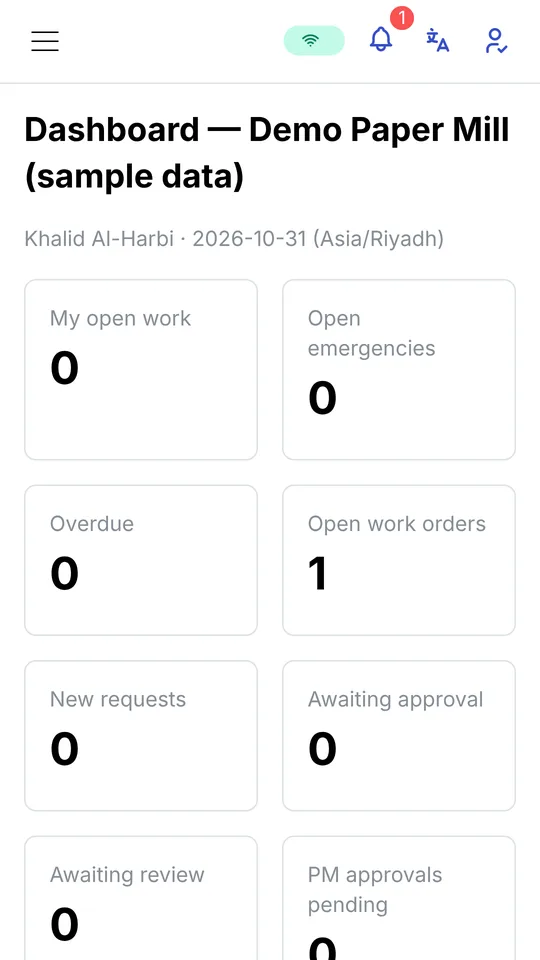
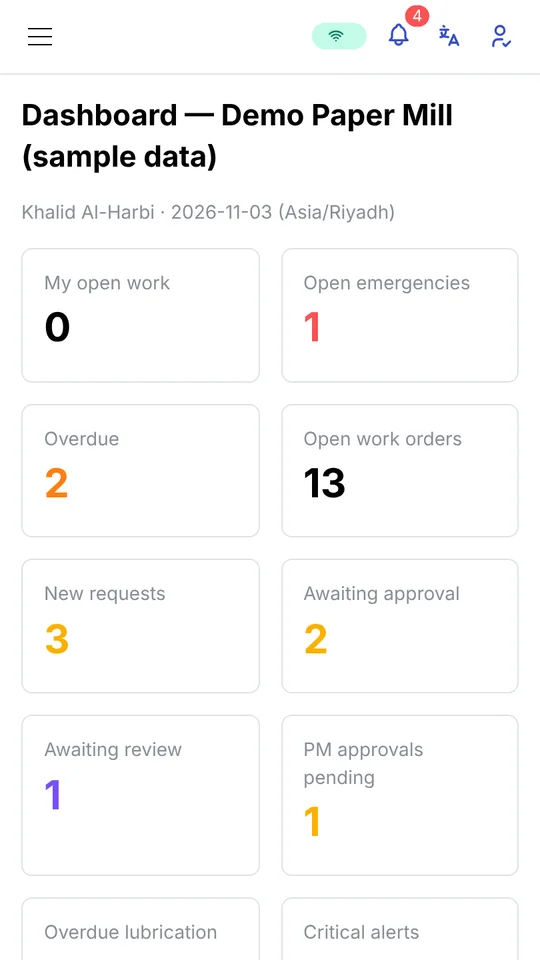
Website: attractive hero on phones (one large live dashboard with floating alert and KPI cards), fresh screenshots from the living demo
- hero: dashboard in front (Arabic dashboard when the page is Arabic), My work behind on desktop; on phones one
  large centred screen; floating 'critical alert' and 'PM compliance 83%' cards
- screenshots: dashboard, my work, KPIs, Arabic dashboard (new, from the sample plant) + work order, scan

Claude-Session: https://claude.ai/code/session_01Ke7AbW2ZAr1s7LAHWdcbby

diff --git a/site/public/index.html b/site/public/index.html
@@ -56,14 +56,33 @@ nav.links a:hover{color:#fff}
 .hero .ctas{display:flex;flex-wrap:wrap;gap:12px}
 .hero .chips{display:flex;flex-wrap:wrap;gap:8px 18px;margin-top:28px;color:#a9bdd1;font-size:.92rem;padding:0;list-style:none}
 .hero .chips li::before{content:"✓";color:var(--amber);margin-inline-end:6px;font-weight:700}
-.hero-shots{position:relative;height:440px}
+.hero-shots{position:relative;height:500px}
 .phone{border-radius:26px;background:#0b1622;padding:8px;box-shadow:0 24px 60px rgba(0,0,0,.45);border:1px solid rgba(255,255,255,.12)}
 .phone img{border-radius:19px;width:100%;height:auto;aspect-ratio:9/16;object-fit:cover;background:#fff}
-.hero-shots .phone{position:absolute;width:210px}
-.hero-shots .p1{inset-inline-start:8%;top:30px;transform:rotate(-4deg)}
-.hero-shots .p2{inset-inline-start:46%;top:0;transform:rotate(4deg)}
+.hero-shots .phone{position:absolute;width:236px}
+.hero-shots .p1{inset-inline-start:30%;top:6px;z-index:2;transform:rotate(-3deg)}
+.hero-shots .p2{inset-inline-start:2%;top:56px;z-index:1;transform:rotate(-9deg) scale(.88);opacity:.85}
+.float{position:absolute;z-index:3;background:#fff;color:var(--text);border-radius:12px;padding:10px 14px;font-size:.88rem;font-weight:600;
+  box-shadow:0 14px 34px rgba(0,0,0,.35);display:flex;align-items:center;gap:10px;line-height:1.3;max-width:230px}
+.float small{display:block;color:var(--muted);font-weight:500;font-size:.78rem}
+.float .dot{flex:none;width:30px;height:30px;border-radius:9px;display:grid;place-items:center;font-size:1rem}
+.float.alert{inset-inline-end:0;top:70px}
+.float.alert .dot{background:#fdecec;color:#c0392b}
+.float.kpi{inset-inline-start:6%;bottom:40px}
+.float.kpi .dot{background:#e9f7ef;color:#1f8a4c}
+@media (max-width:900px){
+  .hero .wrap{grid-template-columns:1fr;padding-top:40px;padding-bottom:40px}
+  .hero-shots{height:auto;max-width:420px;margin:8px auto 0;width:100%;display:flex;justify-content:center;align-items:flex-start;padding:18px 0 24px}
+  .hero-shots .p2{display:none}
+  .hero-shots .phone{width:252px;height:auto}
+  .hero-shots .p1{position:relative;inset:auto;transform:rotate(-2deg)}
+  .float{font-size:.76rem;padding:7px 10px;max-width:168px;gap:8px}
+  .float .dot{width:24px;height:24px;font-size:.85rem}
+  .float small{font-size:.7rem}
+  .float.alert{inset-inline-end:0;top:0}
+  .float.kpi{inset-inline-start:0;bottom:6px}
+}
 .pulse-line{position:absolute;bottom:22px;inset-inline:0;height:40px;opacity:.25;pointer-events:none}
-@media (max-width:900px){.hero .wrap{grid-template-columns:1fr;padding-top:44px}.hero-shots{height:360px;max-width:440px}.hero-shots .phone{width:165px}.hero-shots .p1{inset-inline-start:0}.hero-shots .p2{inset-inline-start:50%}}
 
 /* sections */
 section{padding:80px 0;scroll-margin-top:64px}
@@ -167,8 +186,10 @@ footer a{color:#cfdbe8}
       </ul>
     </div>
     <div class="hero-shots" aria-hidden="true">
-      <div class="phone p1"><img src="/img/my-work.webp" alt="" width="540" height="960"></div>
-      <div class="phone p2"><img src="/img/work-order.webp" alt="" width="540" height="960"></div>
+      <div class="phone p2"><img src="/img/my-work.webp" alt="" width="540" height="960"></div>
+      <div class="phone p1"><img id="heroImg" src="/img/dashboard.webp" alt="" width="540" height="960"></div>
+      <div class="float alert"><span class="dot">⚠</span><span><span data-i18n="fl.alert">Critical alert</span><small data-i18n="fl.alert2">DR1 bearing vibration 7.5 mm/s</small></span></div>
+      <div class="float kpi"><span class="dot">✓</span><span><span data-i18n="fl.kpi">PM compliance 83%</span><small data-i18n="fl.kpi2">MTBF 225 h · OEE 88%</small></span></div>
     </div>
   </div>
   <svg class="pulse-line" viewBox="0 0 1200 40" preserveAspectRatio="none" aria-hidden="true"><path d="M0 20 H520 L545 4 L570 36 L595 12 L612 20 H1200" fill="none" stroke="#F5A623" stroke-width="3"/></svg>
@@ -214,12 +235,12 @@ footer a{color:#cfdbe8}
     <h2 data-i18n="s.title">Made for technicians, not just planners</h2>
     <p class="sub" data-i18n="s.sub">Big buttons, short forms and one tap to the next job. These screens use sample data.</p>
     <div class="shots" tabindex="0" aria-label="Screenshots">
-      <figure><div class="phone"><img loading="lazy" src="/img/my-work.webp" alt="My work screen" width="540" height="960"></div><figcaption data-i18n="s1">My work</figcaption></figure>
-      <figure><div class="phone"><img loading="lazy" src="/img/work-order.webp" alt="Work order screen" width="540" height="960"></div><figcaption data-i18n="s2">Work order</figcaption></figure>
-      <figure><div class="phone"><img loading="lazy" src="/img/condition.webp" alt="Condition monitoring screen" width="540" height="960"></div><figcaption data-i18n="s3">Condition monitoring</figcaption></figure>
-      <figure><div class="phone"><img loading="lazy" src="/img/work-order-ar.webp" alt="Work order in Arabic" width="540" height="960"></div><figcaption data-i18n="s4">Arabic interface</figcaption></figure>
-      <figure><div class="phone"><img loading="lazy" src="/img/scan.webp" alt="QR scanner" width="540" height="960"></div><figcaption data-i18n="s5">Scan QR</figcaption></figure>
       <figure><div class="phone"><img loading="lazy" src="/img/dashboard.webp" alt="Dashboard" width="540" height="960"></div><figcaption data-i18n="s6">Dashboard</figcaption></figure>
+      <figure><div class="phone"><img loading="lazy" src="/img/my-work.webp" alt="My work screen" width="540" height="960"></div><figcaption data-i18n="s1">My work</figcaption></figure>
+      <figure><div class="phone"><img loading="lazy" src="/img/kpis.webp" alt="KPIs" width="540" height="960"></div><figcaption data-i18n="s7">KPIs &amp; reports</figcaption></figure>
+      <figure><div class="phone"><img loading="lazy" src="/img/work-order.webp" alt="Work order screen" width="540" height="960"></div><figcaption data-i18n="s2">Work order</figcaption></figure>
+      <figure><div class="phone"><img loading="lazy" src="/img/dashboard-ar.webp" alt="Arabic dashboard" width="540" height="960"></div><figcaption data-i18n="s4">Arabic interface</figcaption></figure>
+      <figure><div class="phone"><img loading="lazy" src="/img/scan.webp" alt="QR scanner" width="540" height="960"></div><figcaption data-i18n="s5">Scan QR</figcaption></figure>
     </div>
   </div>
 </section>
@@ -360,7 +381,8 @@ footer a{color:#cfdbe8}
     "f12.t":"جوال وثنائي اللغة","f12.d":"تطبيق قابل للتثبيت على الجوال والتابلت، وواجهة عربية كاملة من اليمين لليسار وإنجليزية.",
     "s.eyebrow":"صور الشاشات","s.title":"مصمم للفنيين، وليس للمخططين فقط",
     "s.sub":"أزرار كبيرة ونماذج قصيرة ولمسة واحدة للعمل التالي. هذه الشاشات ببيانات تجريبية.",
-    "s1":"My work – أعمالي","s2":"Work order – أمر عمل","s3":"Condition monitoring – مراقبة الحالة","s4":"الواجهة العربية","s5":"Scan QR – مسح QR","s6":"Dashboard – لوحة التحكم",
+    "s1":"My work – أعمالي","s2":"Work order – أمر عمل","s3":"Condition monitoring – مراقبة الحالة","s4":"الواجهة العربية","s5":"Scan QR – مسح QR","s6":"Dashboard – لوحة التحكم","s7":"KPIs – مؤشرات الأداء",
+    "fl.alert":"تنبيه حرج","fl.alert2":"اهتزاز مرتفع في رولمان آلة الورق","fl.kpi":"التزام الصيانة الوقائية 83%","fl.kpi2":"MTBF 225 h · OEE 88%",
     "h.eyebrow":"نظامك الخاص","h.title":"لكل مصنع نسخته الخاصة من PlantPulse",
     "h.sub":"لا قاعدة بيانات مشتركة مع شركات أخرى. مصنعك يعمل على نسخة مستقلة بعنوانها ومستخدميها وبياناتها ومرفقاتها.",
     "h1.t":"قاعدة بيانات مستقلة","h1.d":"بياناتك لا تُخزَّن أبداً مع بيانات عميل آخر.",
@@ -411,6 +433,7 @@ footer a{color:#cfdbe8}
       if (n.hasAttribute("data-i18n-html")) n.innerHTML = v; else n.textContent = v;
     });
     document.getElementById("langBtn").textContent = lang === "ar" ? "English" : "عربي";
+    document.getElementById("heroImg").src = lang === "ar" ? "/img/dashboard-ar.webp" : "/img/dashboard.webp";
     document.title = lang === "ar" ? "PlantPulse – نظام إدارة الصيانة (CMMS) للمنشآت الصناعية"
                                    : "PlantPulse – Maintenance management (CMMS) for industrial plants";
     try { localStorage.setItem("pp-lang", lang); } catch (e) {}
